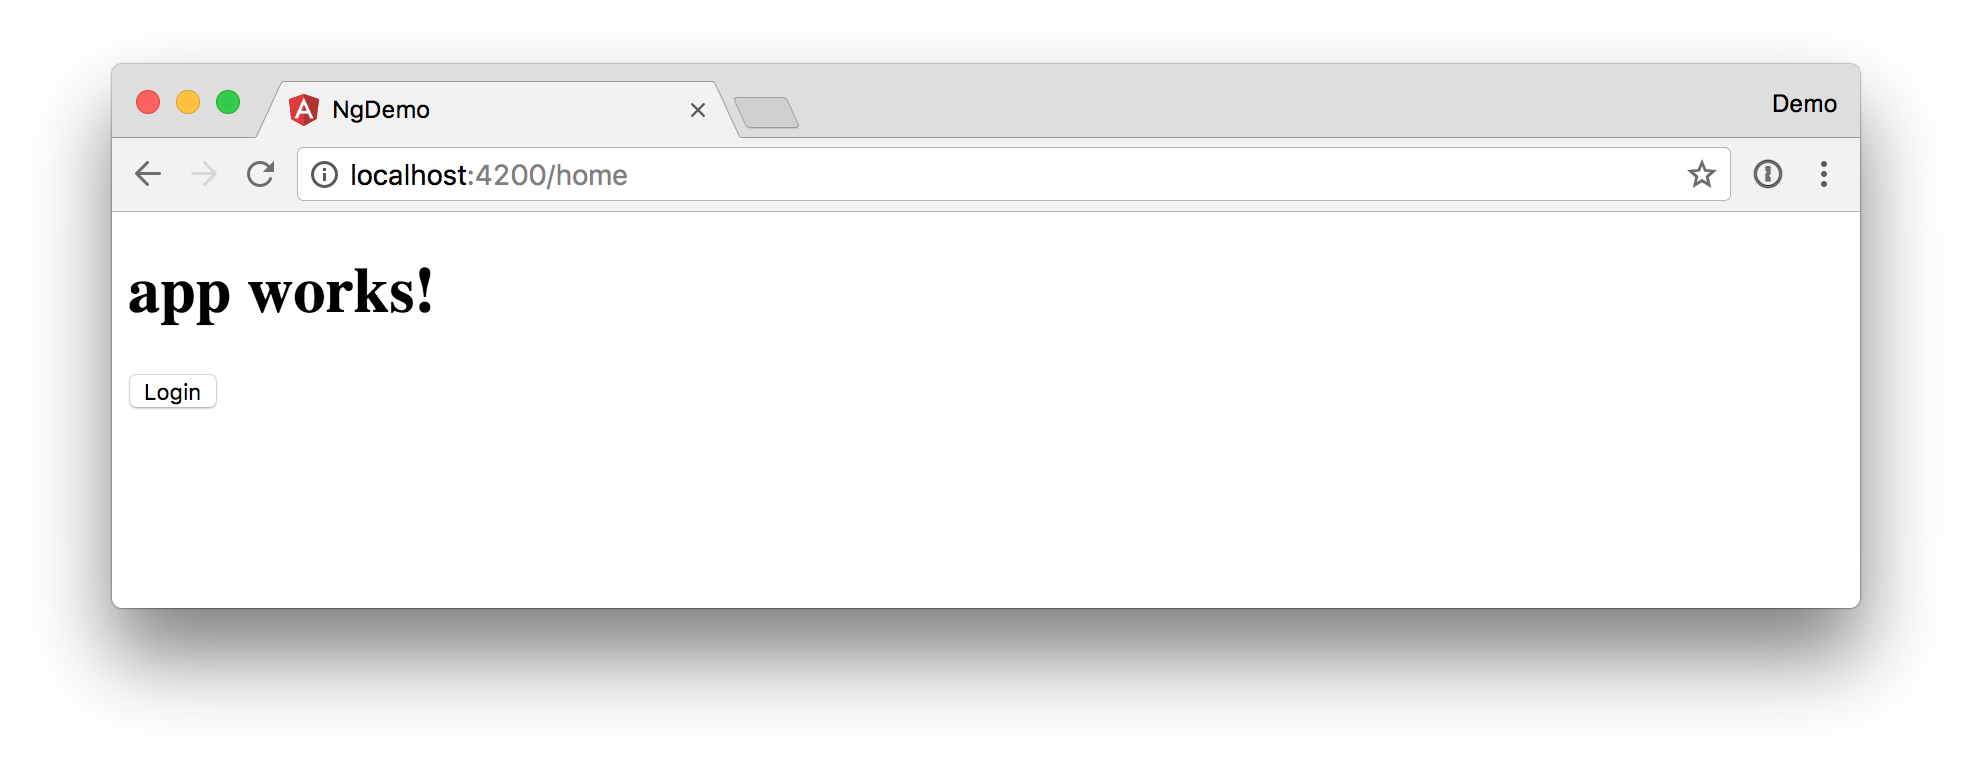
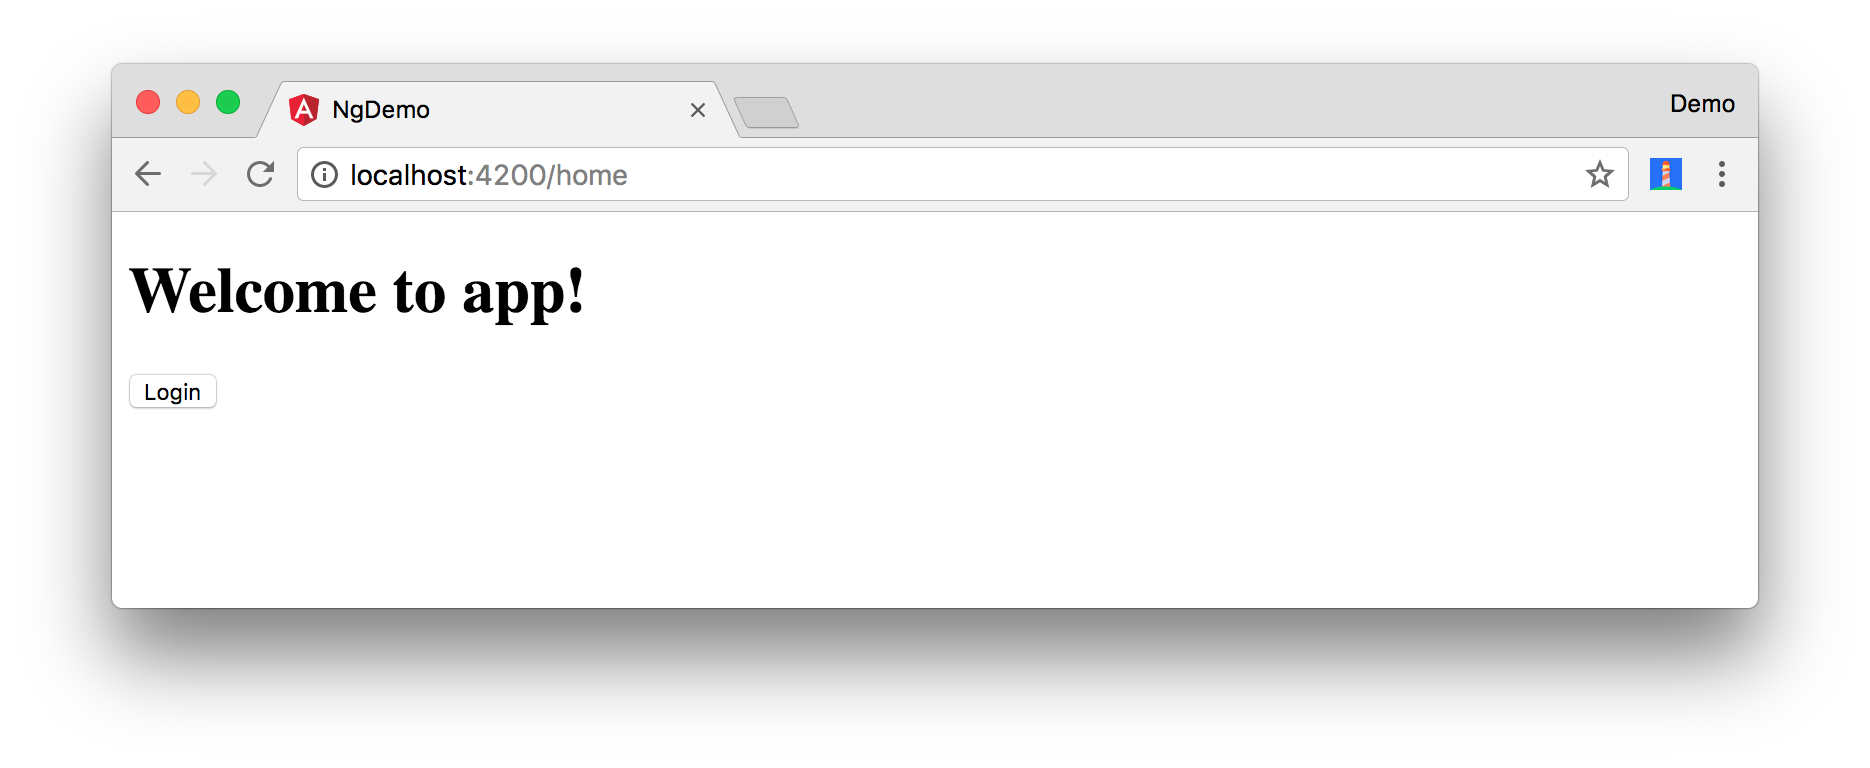
Update for Bootstrap 4

diff --git a/src/app/home/home.component.ts b/src/app/home/home.component.ts
@@ -1,43 +1,43 @@
 import { Component } from '@angular/core';
 import { OAuthService } from 'angular-oauth2-oidc';
-import { Router } from '@angular/router';
-import { OktaAuthWrapper } from '../shared/auth/okta.auth.wrapper';
+import { OktaAuthWrapper } from '../shared';
 
 @Component({
-  template: `<div *ngIf="givenName">
-<h2>Welcome, {{givenName}}!</h2>
-<button (click)="logout()" class="btn btn-default">Logout</button>
-<p><a routerLink="/search" routerLinkActive="active">Search</a></p>
-</div>
-
-<div class="panel panel-default" *ngIf="!givenName">
-    <div class="panel-body">
-        <p>Login with Authorization Server</p>
-        <button class="btn btn-default" (click)="login()">Login</button>
+  template: `
+    <div *ngIf="givenName" class="col-12 mt-2">
+      <button (click)="logout()" class="btn btn-sm btn-outline-primary float-right">Logout</button>
+      <h2>Welcome, {{givenName}}!</h2>
+      <p><a routerLink="/search" routerLinkActive="active">Search</a></p>
     </div>
-</div>
 
-<div class="panel panel-default" *ngIf="!givenName">
-    <div class="panel-body">
-        <p>Login with Username/Password</p>
+    <div class="card mt-2" *ngIf="!givenName">
+      <div class="card-body">
+        <h4 class="card-title">Login with Authorization Server</h4>
+        <button class="btn btn-primary" (click)="login()">Login</button>
+      </div>
+    </div>
 
-        <p style="color:red; font-weight:bold" *ngIf="loginFailed">
-            Login wasn't successful.
+    <div class="card mt-2" *ngIf="!givenName">
+      <div class="card-body">
+        <h4 class="card-title">Login with Username/Password</h4>
+
+        <p class="alert alert-error" *ngIf="loginFailed">
+          Login wasn't successful.
         </p>
 
         <div class="form-group">
-            <label>Username</label>
-            <input class="form-control" [(ngModel)]="username">
+          <label>Username</label>
+          <input class="form-control" [(ngModel)]="username">
         </div>
         <div class="form-group">
-            <label>Password</label>
-            <input class="form-control" type="password" [(ngModel)]="password">
+          <label>Password</label>
+          <input class="form-control" type="password" [(ngModel)]="password">
         </div>
         <div class="form-group">
-            <button class="btn btn-default" (click)="loginWithPassword()">Login</button>
-        </div>        
-    </div>
-</div>`
+          <button class="btn btn-primary" (click)="loginWithPassword()">Login</button>
+        </div>
+      </div>
+    </div>`
 })
 export class HomeComponent {
   username;

diff --git a/src/app/edit/edit.component.html b/src/app/edit/edit.component.html
@@ -1,28 +1,36 @@
-<div *ngIf="person">
-  <h3>{{editName}}</h3>
+<div *ngIf="person" class="col-8">
+  <h3 class="mt-2">{{editName}}</h3>
   <form #editForm="ngForm" (ngSubmit)="save()" ngNativeValidate>
     <div>
       <label>Id:</label>
       {{person.id}}
     </div>
-    <div>
+    <div class="form-group">
       <label>Name:</label>
-      <input [(ngModel)]="editName" name="name" id="name" placeholder="name" required/>
+      <input [(ngModel)]="editName" name="name" id="name" placeholder="name" required class="form-control"/>
     </div>
-    <div>
+    <div class="form-group">
       <label>Phone:</label>
-      <input [(ngModel)]="editPhone" name="phone" id="phone" placeholder="Phone"/>
+      <input [(ngModel)]="editPhone" name="phone" id="phone" placeholder="Phone" class="form-control"/>
     </div>
-    <fieldset>
-      <legend>Address:</legend>
+    <fieldset class="form-group">
+      <legend class="col-form-legend">Address:</legend>
       <address>
-        <input [(ngModel)]="editAddress.street" name="street" id="street"><br/>
-        <input [(ngModel)]="editAddress.city" name="city" id="city">,
-        <input [(ngModel)]="editAddress.state" name="state" id="state" size="2">
-        <input [(ngModel)]="editAddress.zip" name="zip" id="zip" size="5">
+        <input [(ngModel)]="editAddress.street" name="street" id="street" class="form-control mb-2">
+        <div class="row">
+          <div class="col-6">
+            <input [(ngModel)]="editAddress.city" name="city" id="city" class="form-control">
+          </div>
+          <div class="col-3">
+            <input [(ngModel)]="editAddress.state" name="state" id="state" size="2" class="form-control">
+          </div>
+          <div class="col-3">
+            <input [(ngModel)]="editAddress.zip" name="zip" id="zip" size="5" class="form-control">
+          </div>
+        </div>
       </address>
     </fieldset>
-    <button type="submit" id="save">Save</button>
-    <button (click)="cancel()" id="cancel">Cancel</button>
+    <button type="submit" id="save" class="btn btn-primary">Save</button>
+    <button (click)="cancel(); false" id="cancel" class="btn">Cancel</button>
   </form>
 </div>

diff --git a/src/app/app.module.ts b/src/app/app.module.ts
@@ -4,20 +4,18 @@ import { FormsModule } from '@angular/forms';
 import { AppComponent } from './app.component';
 import { SearchComponent } from './search/search.component';
 import { Routes, RouterModule } from '@angular/router';
-import { SearchService } from './shared';
+import { SearchService, AuthGuard, OktaAuthWrapper } from './shared';
 import { HttpModule } from '@angular/http';
 import { EditComponent } from './edit/edit.component';
 import { OAuthModule } from 'angular-oauth2-oidc';
 import { HomeComponent } from './home/home.component';
-import { AuthGuard } from './shared/auth/auth.guard.service';
-import { OktaAuthWrapper } from './shared/auth/okta.auth.wrapper';
 
 const appRoutes: Routes = [
-  { path: 'search', component: SearchComponent, canActivate: [AuthGuard] },
-  { path: 'edit/:id', component: EditComponent, canActivate: [AuthGuard]},
-  { path: 'home', component: HomeComponent},
-  { path: '', redirectTo: 'home', pathMatch: 'full' },
-  { path: '**', redirectTo: 'home' }
+  {path: 'search', component: SearchComponent, canActivate: [AuthGuard]},
+  {path: 'edit/:id', component: EditComponent, canActivate: [AuthGuard]},
+  {path: 'home', component: HomeComponent},
+  {path: '', redirectTo: 'home', pathMatch: 'full'},
+  {path: '**', redirectTo: 'home'}
 ];
 
 @NgModule({

diff --git a/src/app/search/search.component.html b/src/app/search/search.component.html
@@ -1,11 +1,11 @@
-<a routerLink="/home" routerLinkActive="active" style="float: right">Home</a>
-<h2>Search</h2>
-<form>
-  <input type="search" name="query" [(ngModel)]="query" (keyup.enter)="search()">
-  <button type="button" (click)="search()">Search</button>
+<a routerLink="/home" routerLinkActive="active">Home</a>
+<h2 class="mt-2">Search</h2>
+<form class="form-inline">
+  <input type="search" name="query" [(ngModel)]="query" (keyup.enter)="search()" placeholder="Search" class="form-control mr-sm-2">
+  <button type="button" (click)="search()" class="btn btn-primary">Search</button>
 </form>
 
-<table *ngIf="searchResults">
+<table *ngIf="searchResults" class="table">
   <thead>
   <tr>
     <th>Name</th>

diff --git a/src/app/app.component.html b/src/app/app.component.html
@@ -1,7 +1,6 @@
-<h1>Welcome to {{title}}!</h1>
-
-<div class="container">
-  <div class="row">
-    <router-outlet></router-outlet>
-  </div>
+<nav class="navbar navbar-light bg-secondary">
+  <a class="navbar-brand text-light" href="#">Welcome to {{title}}!</a>
+</nav>
+<div class="container-fluid">
+  <router-outlet></router-outlet>
 </div>

diff --git a/src/index.html b/src/index.html
@@ -7,7 +7,6 @@
 
   <meta name="viewport" content="width=device-width, initial-scale=1">
   <link rel="icon" type="image/x-icon" href="favicon.ico">
-  <link href="https://maxcdn.bootstrapcdn.com/bootstrap/3.3.7/css/bootstrap.min.css" rel="stylesheet">
 </head>
 <body>
   <app-root></app-root>

diff --git a/src/app/shared/index.ts b/src/app/shared/index.ts
@@ -1,1 +1,3 @@
 export * from './search/search.service';
+export * from './auth/auth.guard.service';
+export * from './auth/okta.auth.wrapper';

diff --git a/src/styles.css b/src/styles.css
@@ -1,1 +1,2 @@
 /* You can add global styles to this file, and also import other style files */
+@import "~bootstrap/dist/css/bootstrap.css";
